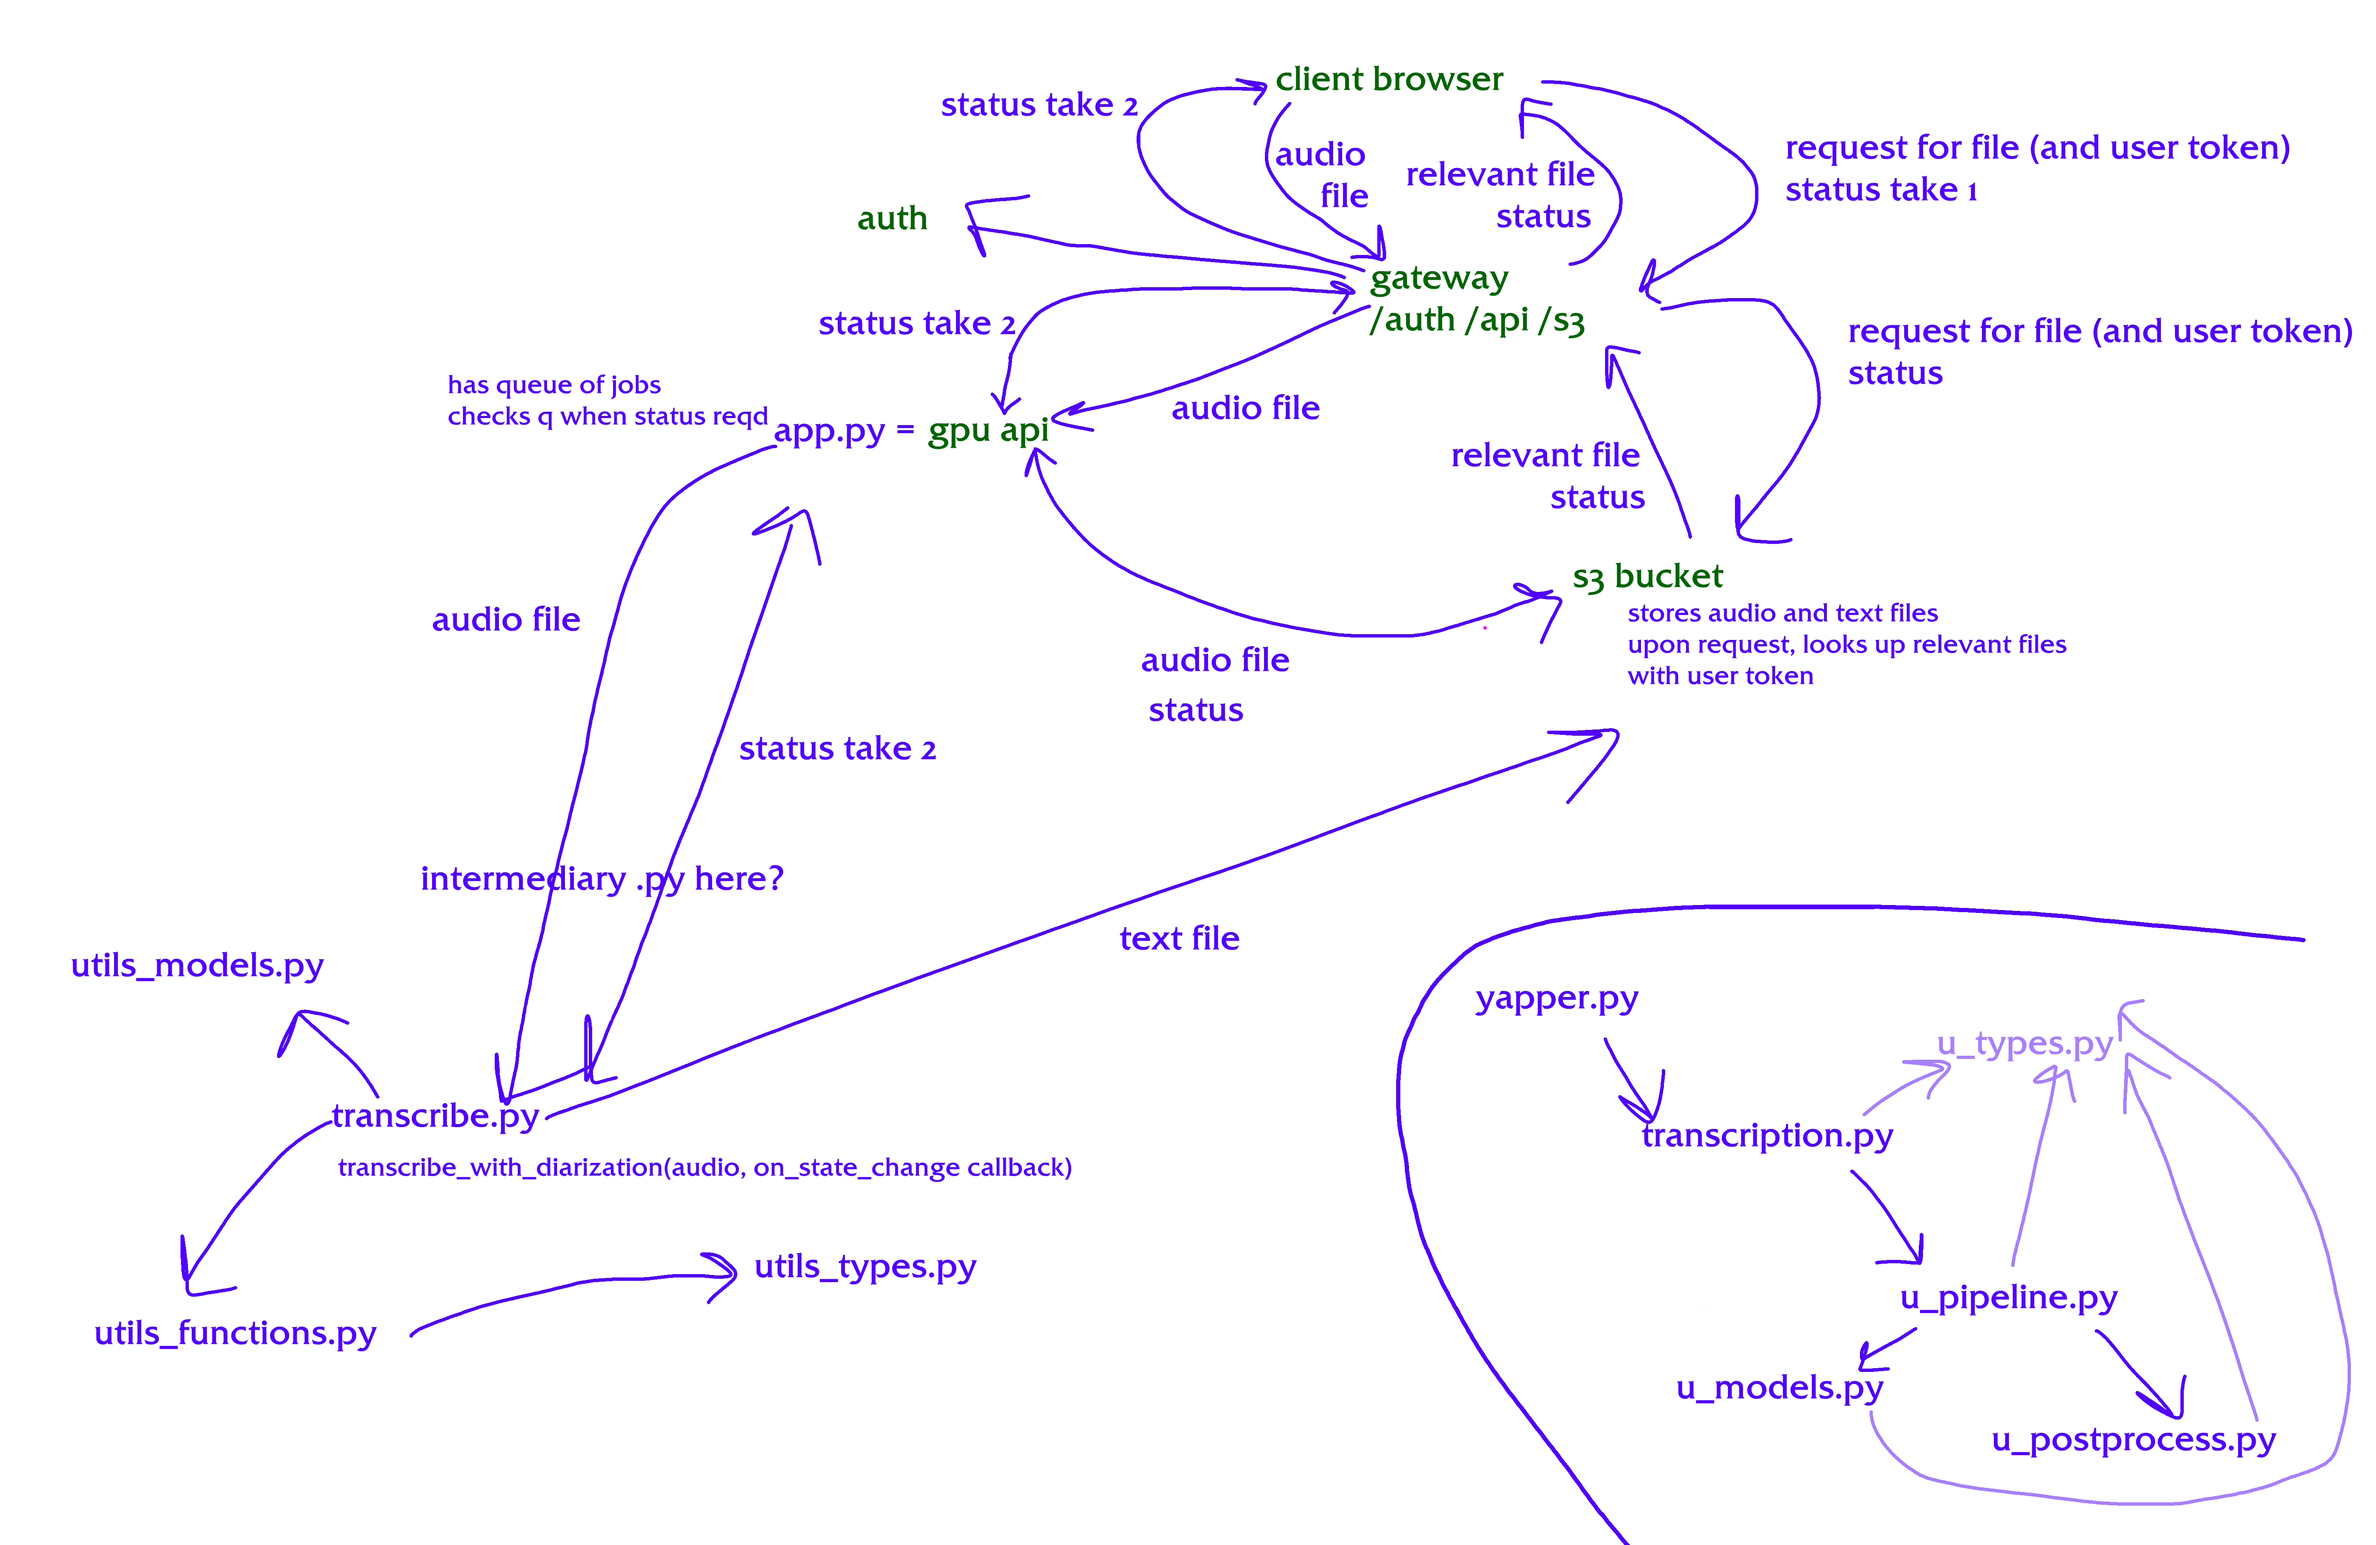
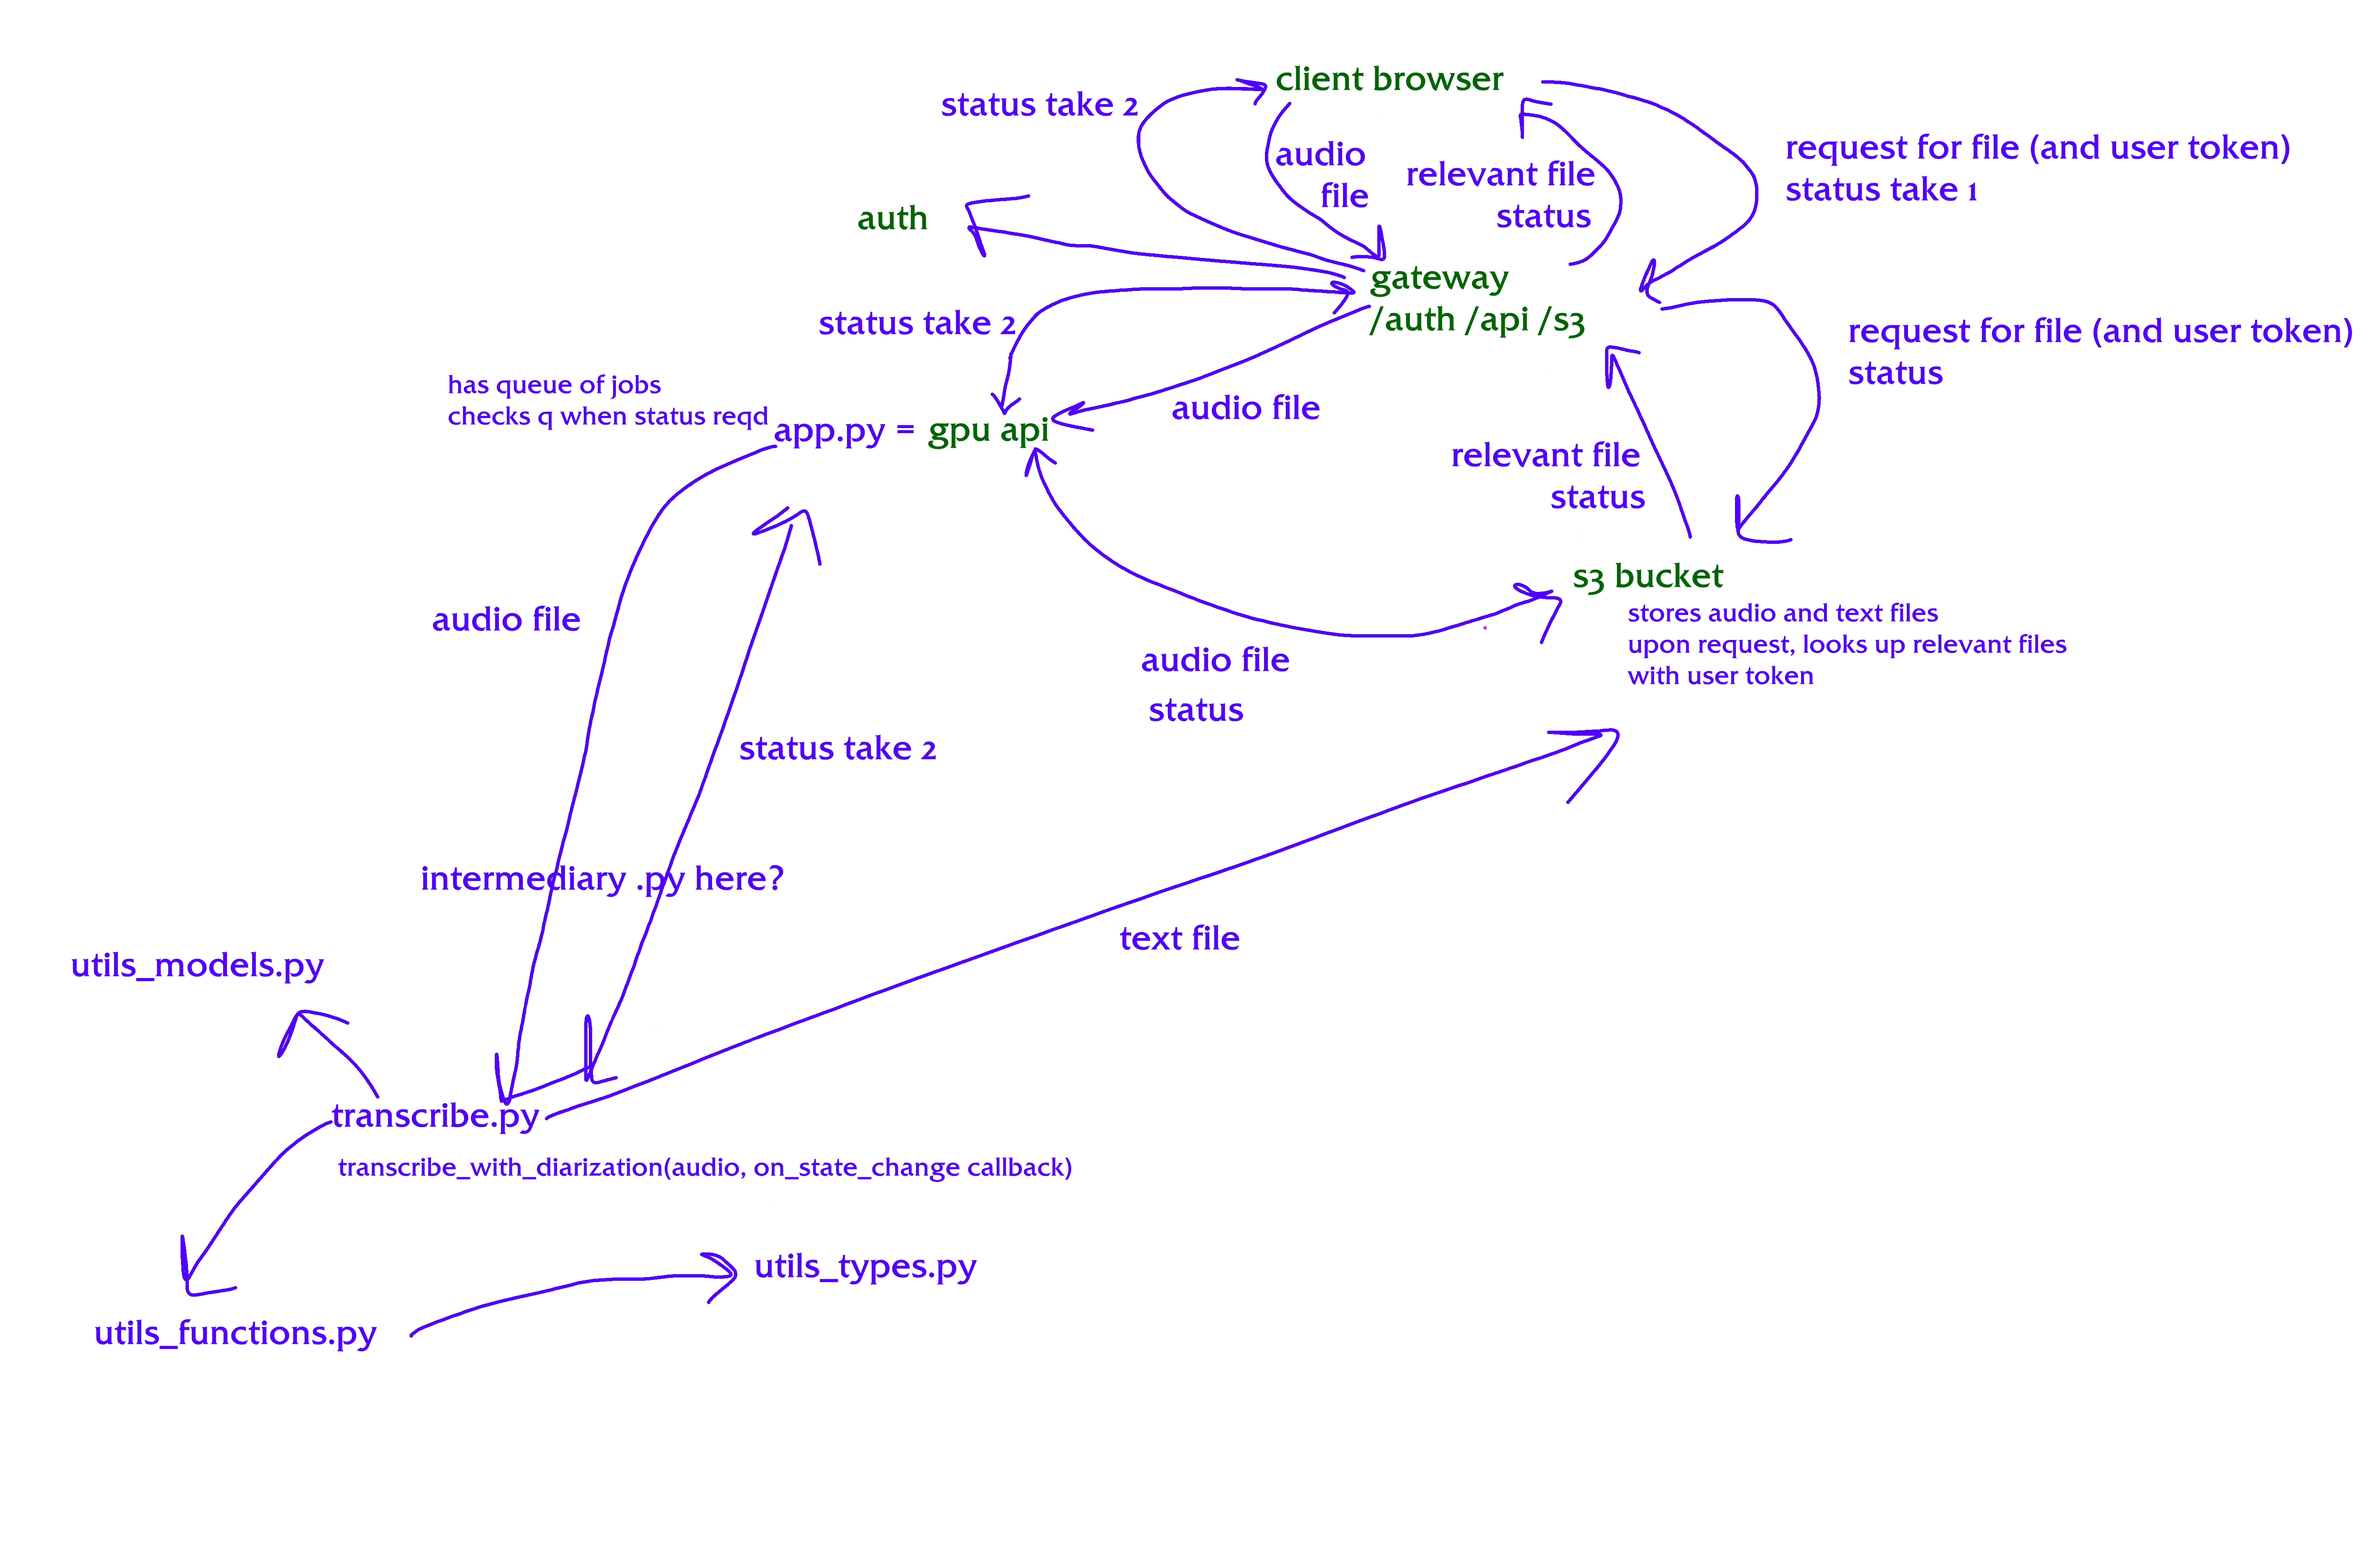
minor cleanup of files

diff --git a/frontend/app/css/style.css b/frontend/app/css/style.css
@@ -285,7 +285,8 @@ a:focus-visible, button:focus-visible {
     display: block;
 }
 
-#usage-table {
+table {
+    table-layout: fixed;
     border-collapse: collapse;
     width: 100%;
     max-width: 30rem;
@@ -295,12 +296,22 @@ a:focus-visible, button:focus-visible {
 
 }
 
-#usage-table thead {
+table th:first-child,
+table td:first-child {
+    width: 60%;
+}
+
+table th:nth-child(2),
+table td:nth-child(2) {
+    width: 40%;
+}
+
+table thead {
     background-color: var(--grey);
 }
 
-#usage-table th,
-#usage-table td {
+table th,
+table td {
     padding: var(--space-xs) var(--space-sm);
     text-align: left;
     font-size: var(--font-size);
@@ -308,11 +319,11 @@ a:focus-visible, button:focus-visible {
     border: 0;
 }
 
-#usage-table > tbody > tr:first-child > td {
+table > tbody > tr:first-child > td {
     padding-top: var(--space-sm);
 }
 
-#usage-table thead th {
+table thead th {
     border-bottom: var(--border-width-thick) solid var(--black);
 }
 

diff --git a/transcription/module/pipeline.py b/transcription/module/pipeline.py
@@ -12,7 +12,6 @@ from .dataclasses import TranscriptionError, TranscriptionResult, \
 from .models import get_align_model, get_diarization_pipeline, get_device, get_whisper_model
 
 DEVICE: Final[str] = get_device()
-STATES: Final[tuple[str, str, str, str, str, str]] = ("idle", "received", "transcribing", "aligning", "diarizing", "post-processing")
 _FFMPEG_AVAILABLE: Final[bool] = which("ffmpeg") is not None # caching ffmpeg presence so that it's not called repeatedly
 
 def load_audio(data:bytes) -> ndarray:

diff --git a/transcription/module/dataclasses.py b/transcription/module/dataclasses.py
@@ -1,6 +1,6 @@
 from dataclasses import dataclass, field
 
-#internal data structures
+# internal data structures
 
 class TranscriptionError(Exception): pass
 

diff --git a/transcription/utils_options.py b/transcription/utils_options.py
@@ -1,0 +1,6 @@
+asr_options = {
+    "beam_size": 7,
+    "patience": 1.2,
+    "hotwords": None,
+    "suppress_numerals": True,
+}

diff --git a/README.md b/README.md
@@ -1,18 +1,14 @@
 # ytyz transcriber
 
 todo:
-1. self host
-3. delete and edit transcription frontend
-4. crud frontend on users for admins?
-5. file status update to reflect on the progress bar instead of on the side (with string enum)
-6. feedback to user on errors
-7. api usage per endpoint for admins only
-~~8. refactor frontend~~
-9. refactor app.py to have real constants per corey's suggestion
-10. refactor transcription.py into a real library/module (with _init__) and all other corey's suggestions
+1. self host (+ fix the flowchart + write a real readme)
+2. delete and edit transcription frontend ( for put/patch i need to call the s3 service with the new file and the job id,
+                                            for delete i need to call the s3 service and the auth service with the job id)
+3. api usage per endpoint for admins only
+4. "All user message strings must be stored in a separate file" json on frontend
 
 stretch goals:
 1. rust ui
 2. cli
-3. ts
+3. ts everywhere
 4. email verification + password change via email + captcha on register
